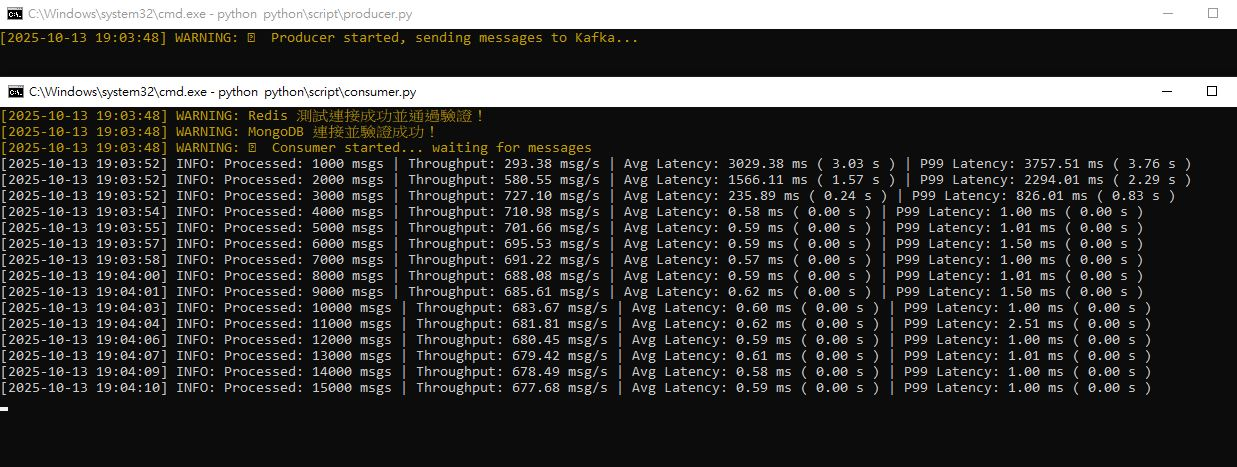
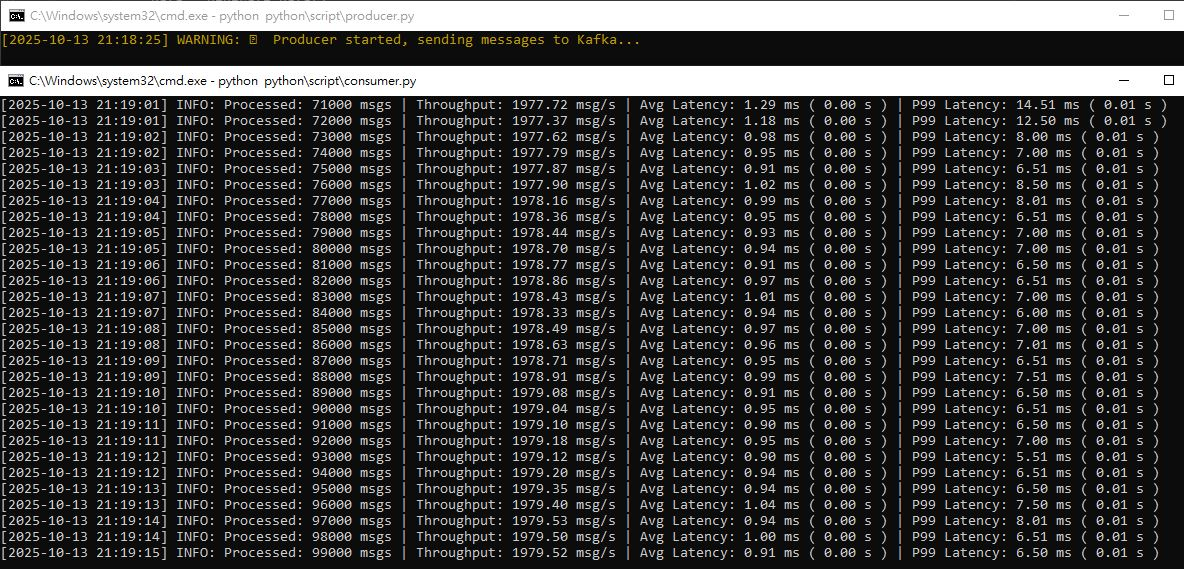
update somethings

diff --git a/python/script/producer.py b/python/script/producer.py
@@ -31,7 +31,7 @@ def success_callback(metadata):
 
 
 def error_callback(exception):
-    logger.error('Failed to send message')
+    logger.error(f'Failed to send message: {exception}')
 
 
 if __name__ == '__main__':
@@ -42,9 +42,9 @@ if __name__ == '__main__':
             # producer.send(TOPIC, value=data)
             producer.send(TOPIC, value=data).add_callback(success_callback).add_errback(error_callback)
             # producer.flush() # flush() 會阻塞 Producer，破壞了 Kafka 內建的批次處理。移除可以讓 Producer 以非同步方式發送數據包。
-            # time.sleep(0.001) # 硬性限制 1ms interval
+            time.sleep(0.0001) # 硬性限制 0.1ms interval
 
-    except KeyboardInterrupt:
+    finally:
         try:
             logger.error('正在關閉 Kafka Producer ...', exc_info=False)
             producer.close()

diff --git a/note/vs.md b/note/vs.md
@@ -9,6 +9,12 @@
 <br>
 
 ## *⭐ Python vs Golang 語言效能差異比較 ⭐*
-- #### *???*
-- ![JPG](../sample/python_00.jpg)
+### *A.　測試指標*
+- #### *吞吐量（ Throughput, msgs/sec ） # 每秒處理數據*
+- #### *平均延遲（ Average Latency ）# 平均延遲 ? 秒*
+- #### *P99 延遲（ P99 Latency ） # 99% 的訊息延遲超過 ? 秒*
+
+### *B.　截圖*
+
+[//]: # (- ![JPG]&#40;../sample/python_00.jpg&#41;)
 - ![JPG](../sample/python_01.jpg)

diff --git a/README.md b/README.md
@@ -42,7 +42,3 @@
 | 吞吐量 | 同步轉異步 | 單筆/同步 ( Sync ) I/O 轉換為 批次/異步 ( Batch/Async ) I/O |
 
 <br>
-
-### *D.　測試指標*
-- #### *吞吐量（ Throughput, msgs/sec ）*
-- #### *平均延遲（ Average Latency ）*
